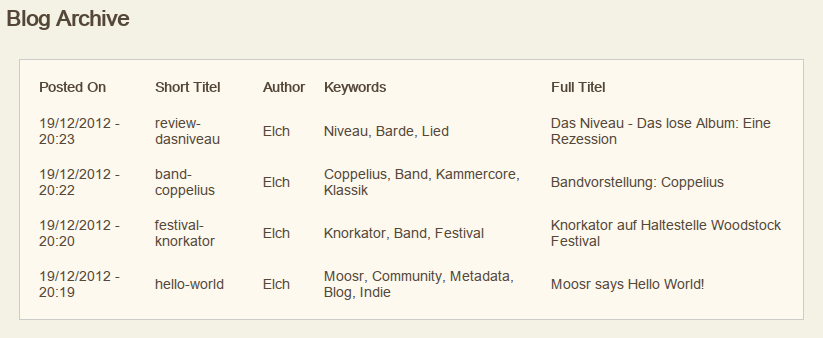
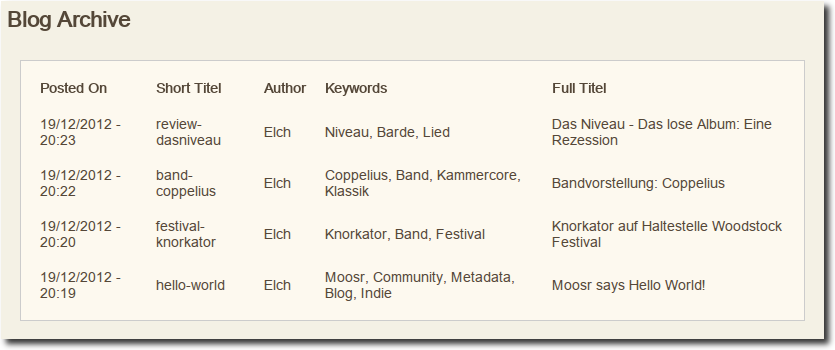
cute shadows around pics

diff --git a/webmarketing/screenshots/dropshadow.py b/webmarketing/screenshots/dropshadow.py
@@ -1,0 +1,18 @@
+#!/usr/bin/env python
+# encoding: utf-8
+
+import os
+import sys
+import glob
+import subprocess
+
+PREFIX = 'old_'
+
+cmd = "convert {0} \( +clone  -background black  -shadow 80x3+5+5 \) +swap -background none -layers merge +repage {1}"
+srcdir = sys.argv[1]
+content = glob.glob1(srcdir, '*.png')
+for item in content:
+    curfile = os.path.join(srcdir, item)
+    oldfile = os.path.join(srcdir, PREFIX + item)
+    os.rename(curfile, oldfile)
+    subprocess.call(cmd.format(oldfile, curfile), shell=True)

diff --git a/webmarketing/src/tex/konzept_web.tex b/webmarketing/src/tex/konzept_web.tex
@@ -193,7 +193,7 @@ Es folgt ein Screenshot des Blogübersichts. Es wird nicht der vollständige
 Beitrag angezeigt sonder jeweils nur ein Bild und ein Teaser:
 
 \begin{center}
-\includegraphics[width=\textwidth]{../screenshots/blog_overview1.png}
+\includegraphics[width=\textwidth]{../screenshots/blog_overview.png}
 \end{center}
 
 In der Übersicht ist die Detailansicht des Beitrags verlinkt. Darin ist der
